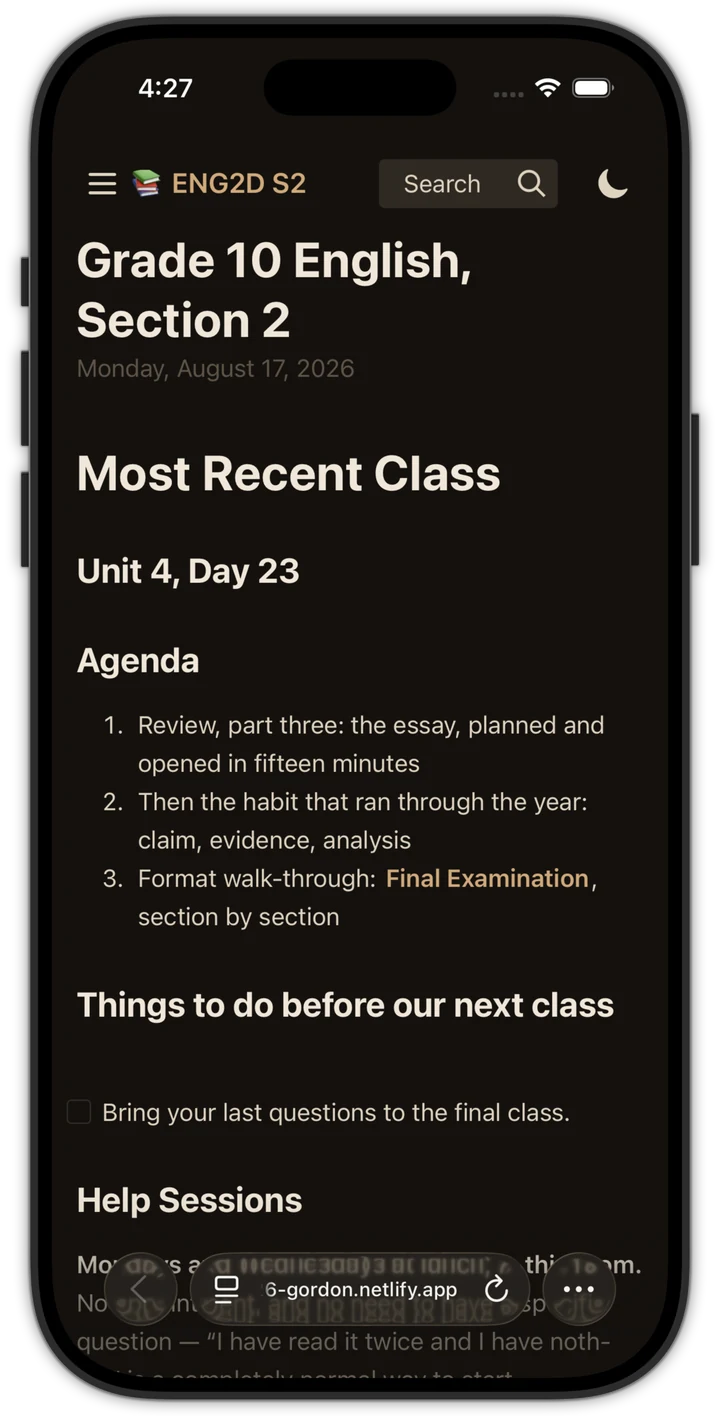
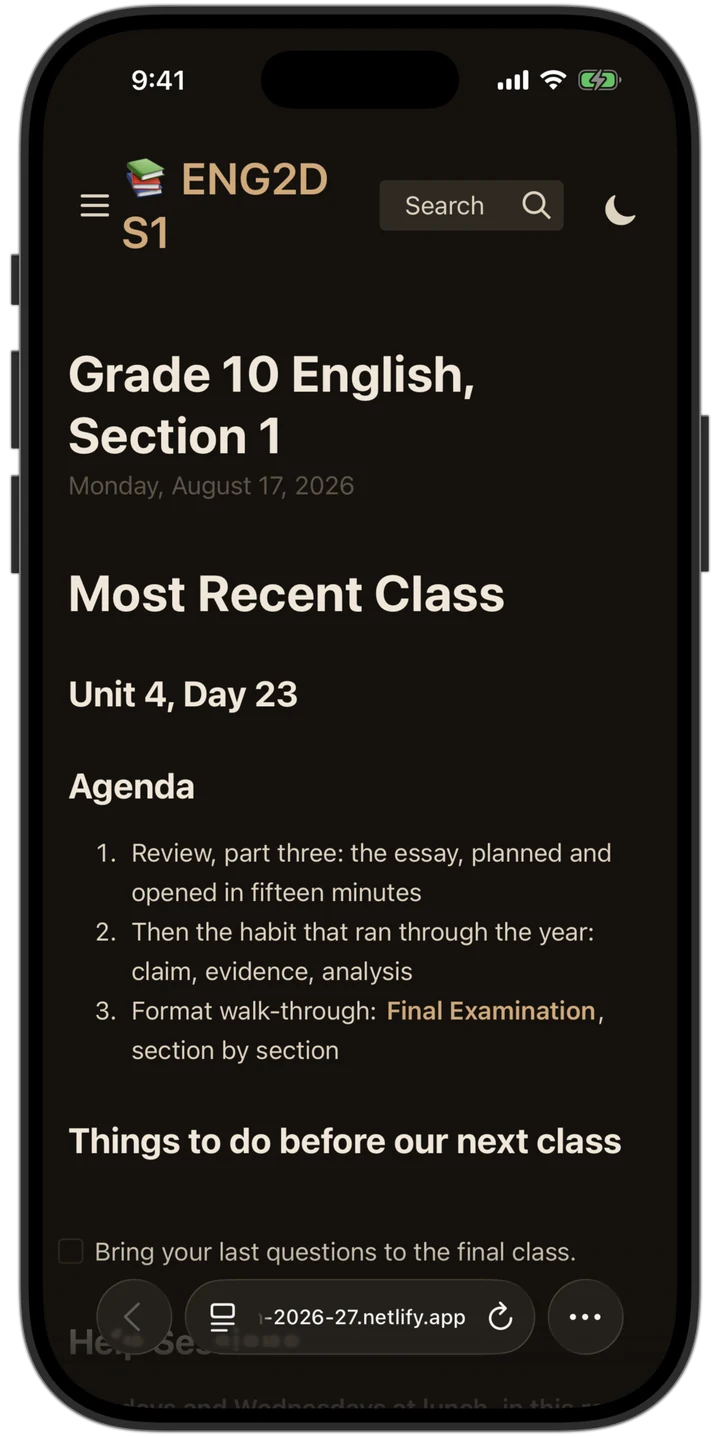
Give the capture harness a --phone flag, and use it for the phone shots
--phone photographs just the class site on the phone, both appearances,
skipping the permission preflight: the path is simctl and RocketSim end
to end, so neither dialog can appear. The simulator constant moves to
"iPhone 17 Pro" — the plain iPhone 17 no longer exists on this Mac, and
simulator_udid() exits when the name matches nothing.

The shots themselves return to the harness's canonical form: 9:41
status bar, full battery, ENG2D section 1.

diff --git a/site/features/index.html b/site/features/index.html
@@ -183,7 +183,7 @@
       <source srcset="../img/site-phone-dark.png" data-win-srcset="../img/site-phone-windows-dark.png" media="(prefers-color-scheme: dark)">
       <source srcset="../img/site-phone-light.webp" data-win-srcset="../img/site-phone-windows-light.webp" type="image/webp">
       <img src="../img/site-phone-light.png" data-win-src="../img/site-phone-windows-light.png" alt="The same class website at phone width, with the navigation collapsed behind a button."
-           width="360" height="708" loading="lazy" decoding="async">
+           width="360" height="718" loading="lazy" decoding="async">
     </picture>
     <figcaption>The same site on a phone.</figcaption>
 </figure>

diff --git a/website/shots/capture.py b/website/shots/capture.py
@@ -74,8 +74,10 @@ DEMO_COURSES = [
 ]
 
 # The simulator used for the phone shot, and the RocketSim helper that draws
-# the device around it.
-SIMULATOR_DEVICE = "iPhone 17"
+# the device around it. "iPhone 17 Pro" because the plain iPhone 17 simulator
+# no longer exists on this Mac (device lists change with Xcode updates), and
+# simulator_udid() exits when the name matches nothing.
+SIMULATOR_DEVICE = "iPhone 17 Pro"
 ROCKETSIM = Path("/Applications/RocketSim.app/Contents/Helpers/rocketsim")
 
 # Window frames the app remembers between launches. The UI tests override them
@@ -880,6 +882,8 @@ def main() -> int:
                         help="with --app, run just the named captures, comma-separated "
                              "(e.g. test4Progress,test6Assistant) instead of all of them")
     parser.add_argument("--sites", action="store_true", help="only photograph the class websites")
+    parser.add_argument("--phone", action="store_true",
+                        help="only photograph the class site on the phone, both appearances")
     parser.add_argument("--figures", action="store_true",
                         help="only reassemble the static figures from parts already captured")
     parser.add_argument("--hero", action="store_true",
@@ -892,6 +896,21 @@ def main() -> int:
 
     if arguments.hero:
         build_hero_figures()
+        rebuild_site()
+        return 0
+
+    if arguments.phone:
+        # No preflight: the phone shot is simctl and RocketSim end to end —
+        # no Safari control, no UI automation — so neither permission dialog
+        # can appear, and the smoke test would only cost a minute.
+        announce("Photographing the class site on the phone")
+        IMAGE_DIR.mkdir(parents=True, exist_ok=True)
+        keeping_awake = stay_awake()
+        try:
+            for dark in (False, True):
+                capture_phone(dark=dark)
+        finally:
+            keeping_awake.terminate()
         rebuild_site()
         return 0
 
